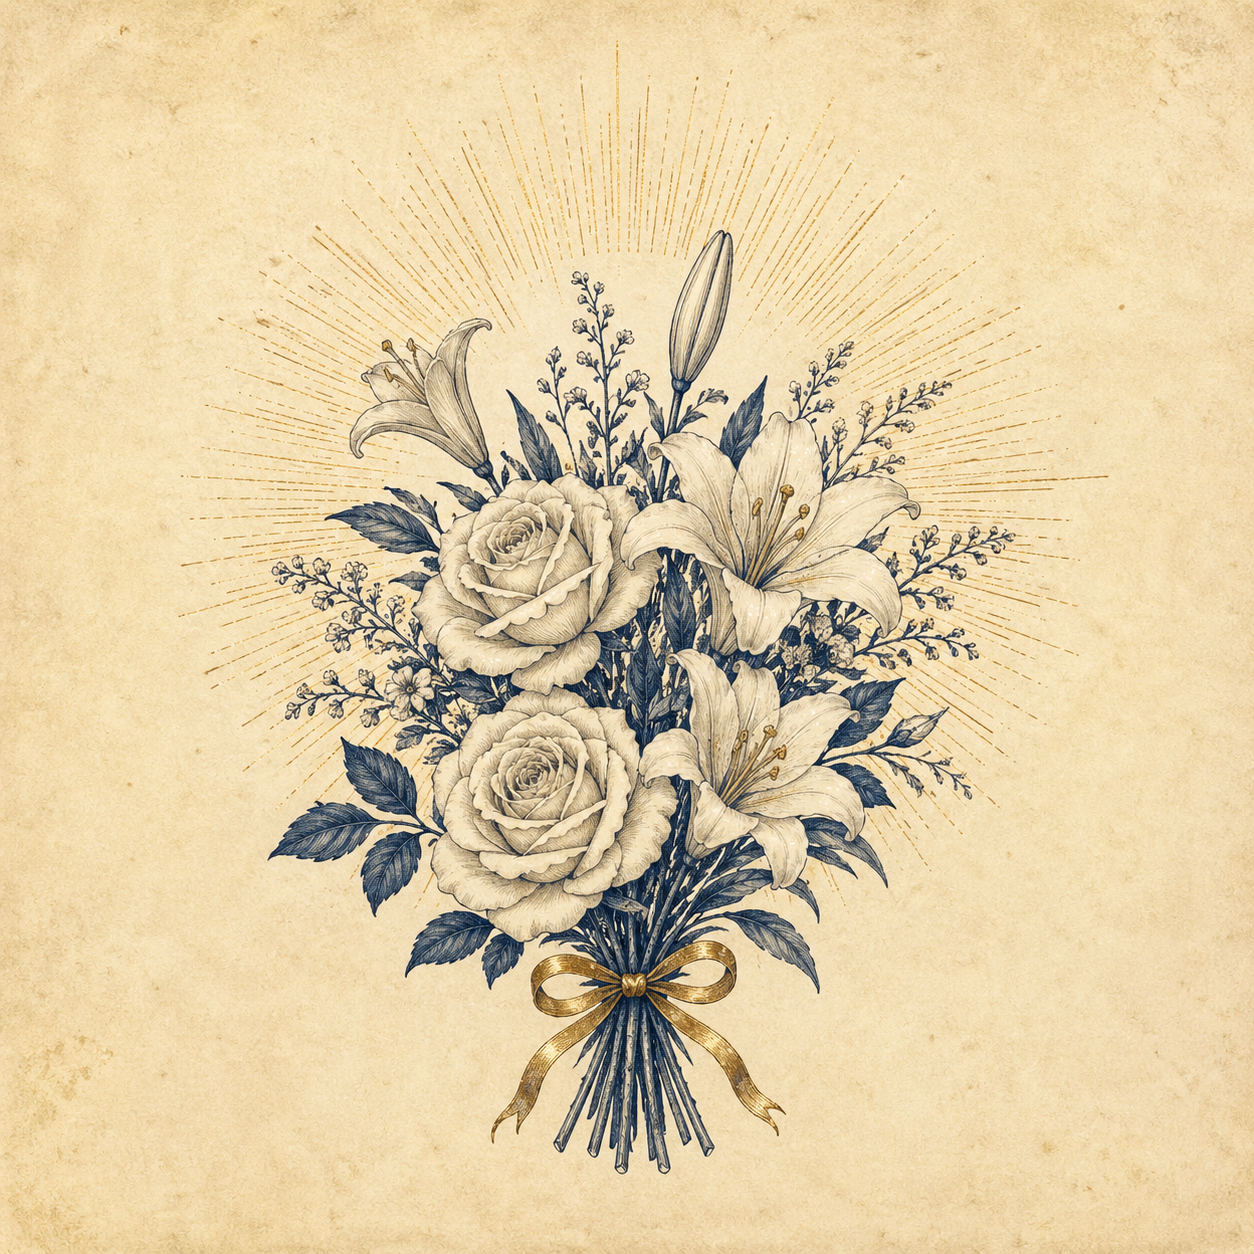
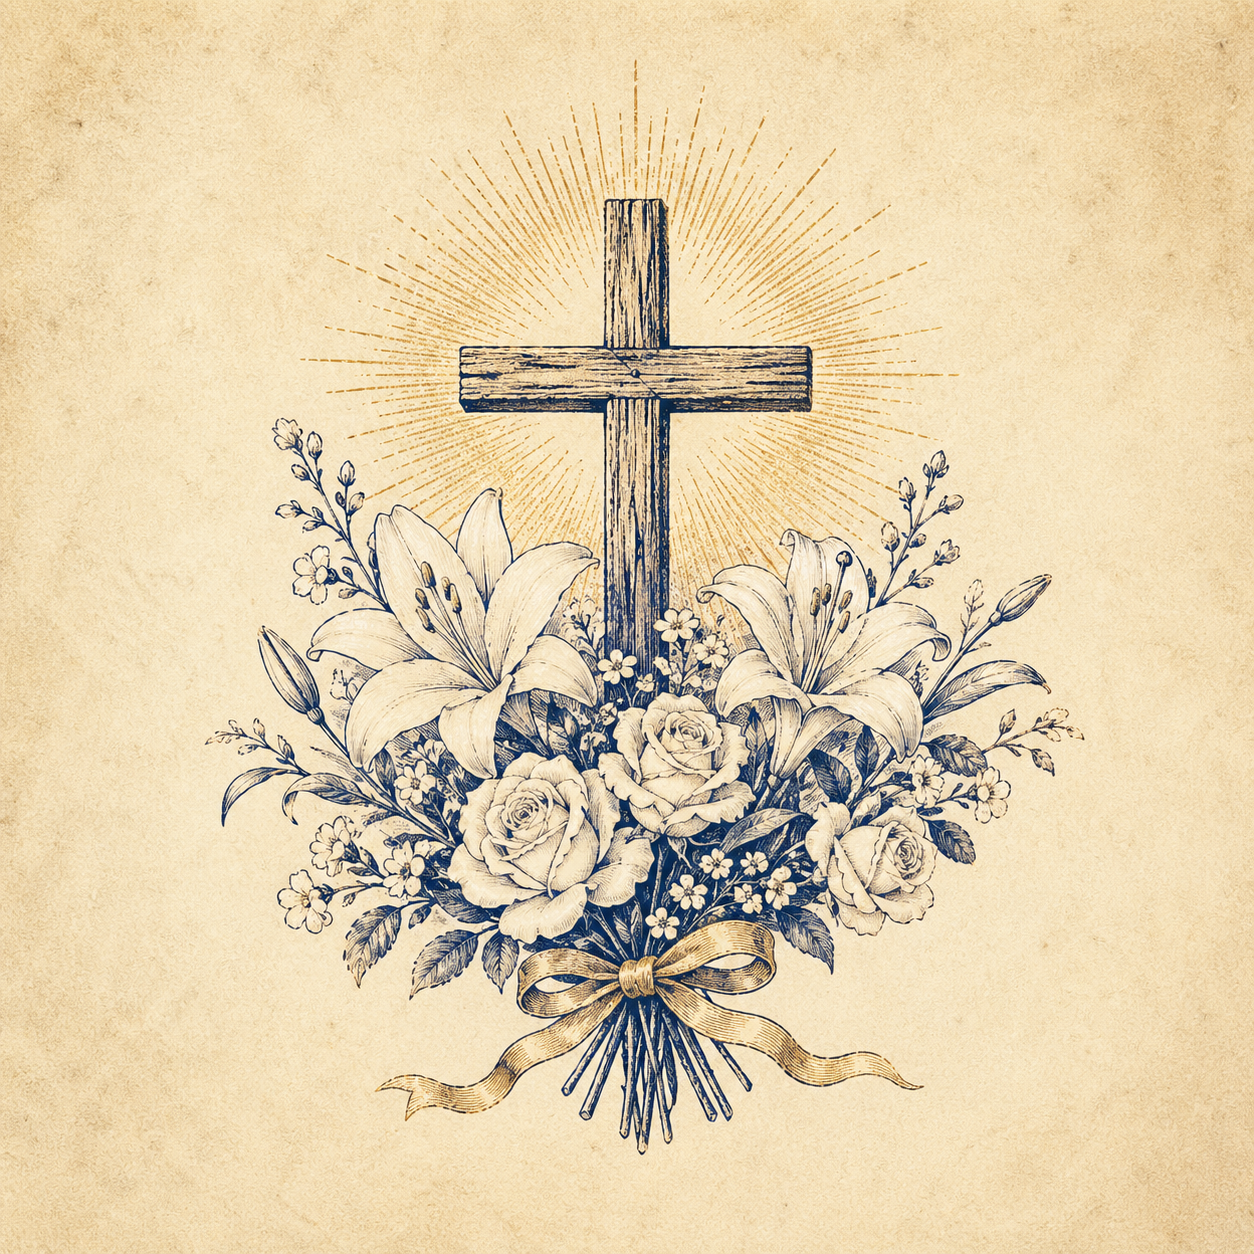
Bouquet PDF: swap emblem to cross + flowers composition (#41)
William flagged that he remembered the bouquet emblem having a cross
in it, not just flowers. The shipped emblem at public/bouquet-emblem.png
(the original from PR #51aa931 / 29675fc on Apr 28) was roses + lilies
+ ribbon + halo with no cross. Memory referenced "cross-bouquet
emblem" but that never matched the actual asset.

This PR swaps in a hand-illustrated wooden cross set above a bouquet
of white roses and lilies bound with a gold ribbon, backed by a
radiant halo. Same navy + antique gold + parchment palette as the
rest of the bouquet PDF; matches the holy-card aesthetic.

Generated a fresh Spina bouquet preview against the new emblem and
visually verified — the cross sits cleanly above the flowers, fits
the allocated space, and the rest of the document renders unchanged
(eyebrow, recipient name, date range, prayer-offered list).

Effect:
- Spiritual bouquet PDFs generated from this point forward (chains
  + trains, manual close + auto-close paths) will use the new emblem.
- The Spina family bouquet that William hands Kathleen on May 23
  now has the cross + flowers emblem.
- Already-rendered PDFs sit immutably in members' inboxes / disks;
  not retroactively updated (impossible).

🤖 Generated with [Claude Code](https://claude.com/claude-code)

diff --git a/src/lib/bouquet-pdf.tsx b/src/lib/bouquet-pdf.tsx
@@ -31,9 +31,11 @@ import { join } from "node:path";
  * template renders cleanly without the emblem in that case (graceful
  * fallback for dev environments where the asset hasn't been added).
  *
- * The emblem is a hand-illustrated bouquet of white roses and lilies
- * with a gold halo and ribbon — designed to match the prayer-card
- * aesthetic of the bouquet itself. See public/bouquet-emblem.png.
+ * The emblem is a hand-illustrated wooden cross set above a bouquet
+ * of white roses and lilies bound with a gold ribbon, backed by a
+ * radiant halo. Designed to match the navy + antique gold + parchment
+ * holy-card aesthetic of the rest of the bouquet PDF. See
+ * public/bouquet-emblem.png.
  */
 let _emblemBuffer: Buffer | null | undefined;
 function getEmblemBuffer(): Buffer | null {
